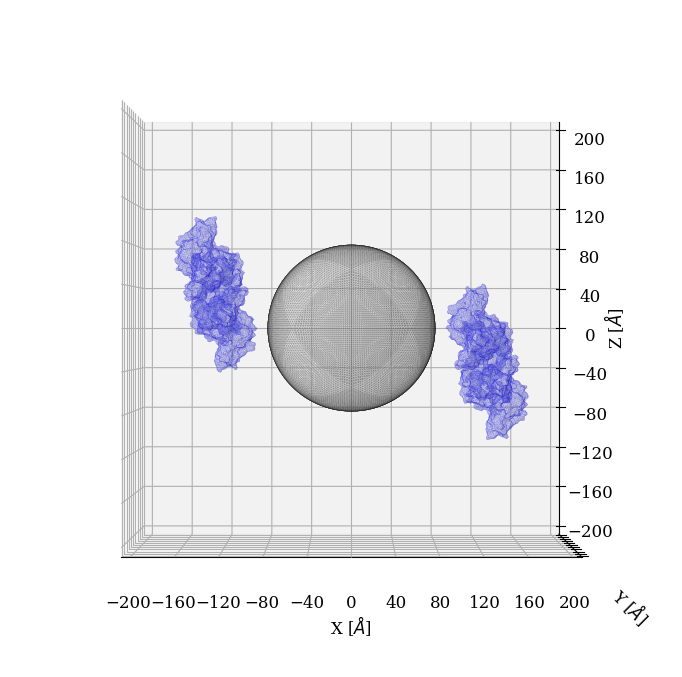
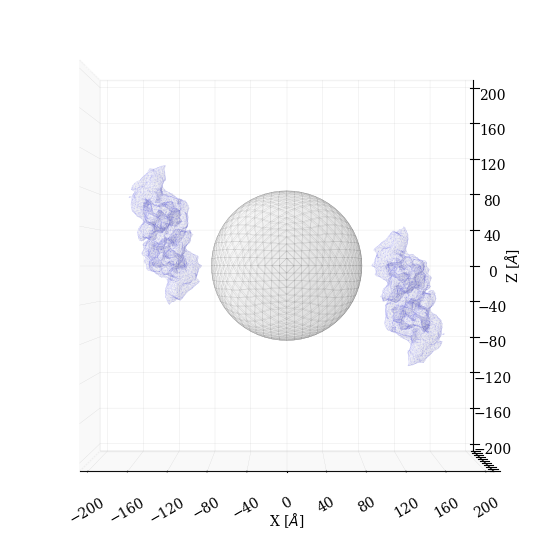
Addapt script to produce propper vis for paper and nb

diff --git a/paper/BSA_silver_NP_LSPR_response/visualization_images.py b/paper/BSA_silver_NP_LSPR_response/visualization_images.py
@@ -9,7 +9,7 @@ import os
 
 
 def read_data_plot(sensor, prt_one, prt_two, elev, azim, prot_color,
-                    file_name=None, file_ext=None):
+                    file_name=None, file_ext=None, fig_size=None):
     '''Reads the mesh files (.vert and .face) necessary to plot the 
     sensor-proteins display and save them as png. 
 
@@ -48,31 +48,43 @@ def read_data_plot(sensor, prt_one, prt_two, elev, azim, prot_color,
     face_protein_2 = face_prt2[:][:] - 1
 
     ### Plot image ###
-    
+
     pyplot.switch_backend('agg')         # We changed the backend to not generate the interactive image  
     
-    fig = pyplot.figure(figsize=(10,10))
+    fig = pyplot.figure(figsize=fig_size)
+    #fig.set_figheight(fig_size[1])
+    #fig.set_figwidth(fig_size[0])
+
     ax = fig.gca(projection='3d')
 
 
     ax.plot_trisurf(xs, ys, zs, triangles=face_sensor, linewidth=0.1,
-                     edgecolor="black", color="white", alpha=0.3)
+                     edgecolor="black", color="white", alpha=0.2)
     ax.plot_trisurf(xp1, yp1, zp1, triangles=face_protein_1, linewidth=0.1,
-                     edgecolor=prot_color, color="white", alpha=0.2 )
+                     edgecolor=prot_color, color="white", alpha=0.1 )
     ax.plot_trisurf(xp2, yp2, zp2, triangles=face_protein_2, linewidth=0.1,
-                     edgecolor=prot_color, color="white", alpha=0.2 )
+                     edgecolor=prot_color, color="white", alpha=0.1 )
 
     ax.set_xlabel('X [$\AA$]')
     ax.set_ylabel('Y [$\AA$]')
     ax.set_zlabel('Z [$\AA$]')
 
-    ax.xaxis.labelpad=20
-    ax.yaxis.labelpad=20
-    ax.zaxis.labelpad=20
+    ax.xaxis.labelpad = 8
+    ax.yaxis.labelpad = 8
+    ax.zaxis.labelpad = 8
 
     arrayOfTicks = numpy.linspace(-200, 200, 11)
 
+    ax.xaxis.pane.fill = False
+    ax.yaxis.pane.fill = False
+    ax.zaxis.pane.fill = False
 
+    #ax.xaxis._axinfo["grid"].update({"linewidth":0.1, "color" : '0.7'})
+    #ax.yaxis._axinfo["grid"].update({"linewidth":0.1, "color" : '0.7'})
+    #ax.zaxis._axinfo["grid"].update({"linewidth":0.1, "color" : '0.7'})
+    
+    ax.grid(False)
+    
     ax.w_xaxis.set_ticks(arrayOfTicks) 
     ax.w_yaxis.set_ticks(arrayOfTicks) 
     ax.w_zaxis.set_ticks(arrayOfTicks) 
@@ -84,28 +96,32 @@ def read_data_plot(sensor, prt_one, prt_two, elev, azim, prot_color,
     ax.set_ylim3d(ilim, slim)
     ax.set_zlim3d(ilim, slim)
 
-    ax.tick_params(pad=15)
+    ax.tick_params(pad=6)
+    pyplot.xticks(rotation=30)
+    pyplot.yticks(rotation=30)
+
+    #pyplot.tight_layout()
 
     if (azim==-90):
         ax.w_yaxis.set_ticklabels([])
+        ax.set_ylabel('')
 
     if (azim==-180):
         ax.w_xaxis.set_ticklabels([])
+        ax.set_xlabel('')
 
 
     ax.view_init(elev, azim)
 
     if (file_name and file_ext):
-        fig.savefig('figures/'+file_name+'.'+file_ext, bbox_inches='tight', 
-                    pad_inches=-0.5,
-                    format=file_ext)
+        fig.savefig('figures/'+file_name+'.'+file_ext, bbox_inches='tight',
+                    format=file_ext, pad_inches=-0.75)
 
-def main():
-    ''' Generates all the png for sphere-BSA visualizations.
+def file_exist(files_list):
+    '''Checks if images files exist
     '''
-    files = ['2prot_1nm_z_R8nm.png', '2prot_1nm_x_R8nm.png', '2prot_1nm_y_R8nm.png']
     status = list()
-    for file in files:
+    for file in files_list:
         if os.path.exists('figures/'+file):
             status.append(True)
         else:
@@ -113,50 +129,83 @@ def main():
 
     status = all(status)
 
-    if status == True:
-        print('Visualizations already exist! If you want to generate them '
-            'again, please delete the existing ones.')
+    return status
 
-    elif status == False: 
-        print('This can take couple of minutes, please wait while images '
-            'are produce.')
+def main(paper=False):
+    ''' Generates all the png for sphere-BSA visualizations.
+    '''
 
-        rcParams['font.family'] = 'serif'
-        rcParams['font.size'] = 12
-
-        #Case of 2 proteins in z
-        sensor = 'mesh_files/sensor/sensor_32K_R8nm'
-        prt_1z = 'mesh_files/BSA_sensor_2pz_d=1_00/bsa_d1_R8+1nm_z'
-        prt_2z = 'mesh_files/BSA_sensor_2pz_d=1_00/bsa_d1_R8+1nm_-z'
-
-
-        read_data_plot(sensor, prt_1z, prt_2z, elev=0, azim=-90,
-                                            prot_color='red',
-                                            file_name='2prot_1nm_z_R8nm',
-                                            file_ext='png')
-        #Case of 2 proteins in x
-        prt_1x = 'mesh_files/BSA_sensor_2px_d=1_00/bsa_d1_R8+1nm_x'
-        prt_2x = 'mesh_files/BSA_sensor_2px_d=1_00/bsa_d1_R8+1nm_-x'
+    if paper:
+        file_ext = 'pdf'
+        fig_size = (9, 9)
+        fs = 10
+    else:
+        file_ext = 'png'
+        fig_size = (9, 9)
+        fs = 10
 
 
-        read_data_plot(sensor, prt_1x, prt_2x, elev=0, azim=-90,
-                                            prot_color='blue',
-                                            file_name='2prot_1nm_x_R8nm',
-                                            file_ext='png')
-        #Case of 2 proteins in y
-        prt_1y = 'mesh_files/BSA_sensor_2py_d=1_00/bsa_d1_R8+1nm_y'
-        prt_2y = 'mesh_files/BSA_sensor_2py_d=1_00/bsa_d1_R8+1nm_-y'
+    rcParams['font.family'] = 'serif'
+    rcParams['font.size'] = fs
+    
+
+    #Case of 2 proteins in z
+    sensor = 'mesh_files/sensor/sensor_2K_R8nm'
+    prt_1z = 'mesh_files/BSA_sensor_2pz_d=1_00/bsa_d0.3_R8+1nm_z'
+    prt_2z = 'mesh_files/BSA_sensor_2pz_d=1_00/bsa_d0.3_R8+1nm_-z'
 
 
-        read_data_plot(sensor, prt_1y, prt_2y, elev=0, azim=-180,
-                                            prot_color='green',
-                                            file_name='2prot_1nm_y_R8nm',
-                                            file_ext='png')
+    read_data_plot(sensor, prt_1z, prt_2z, elev=0, azim=-90,
+                                        prot_color='red',
+                                        file_name='2prot_1nm_z_R8nm',
+                                        file_ext=file_ext,
+                                        fig_size=fig_size)
+    
+    #Case of 2 proteins in x
+    prt_1x = 'mesh_files/BSA_sensor_2px_d=1_00/bsa_d0.3_R8+1nm_x'
+    prt_2x = 'mesh_files/BSA_sensor_2px_d=1_00/bsa_d0.3_R8+1nm_-x'
 
+
+    read_data_plot(sensor, prt_1x, prt_2x, elev=0, azim=-90,
+                                        prot_color='blue',
+                                        file_name='2prot_1nm_x_R8nm',
+                                        file_ext=file_ext,
+                                        fig_size=fig_size)
+    #Case of 2 proteins in y
+    prt_1y = 'mesh_files/BSA_sensor_2py_d=1_00/bsa_d0.3_R8+1nm_y'
+    prt_2y = 'mesh_files/BSA_sensor_2py_d=1_00/bsa_d0.3_R8+1nm_-y'
+
+
+    read_data_plot(sensor, prt_1y, prt_2y, elev=0, azim=-180,
+                                        prot_color='green',
+                                        file_name='2prot_1nm_y_R8nm',
+                                        file_ext=file_ext,
+                                        fig_size=fig_size)
+    
 
 
 
 if __name__ == "__main__":
-    main()
+
+    files_nb = ['2prot_1nm_z_R8nm.png', '2prot_1nm_x_R8nm.png', '2prot_1nm_y_R8nm.png']
+    files_paper =['2prot_1nm_z_R8nm.pdf', '2prot_1nm_x_R8nm.pdf', '2prot_1nm_y_R8nm.pdf']
+
+    status_nb = file_exist(files_nb)
+    status_paper = file_exist(files_paper)
+
+    
+    if status_nb == False: 
+        print('This can take couple of minutes, please wait while images for '
+            'notebook report are produced.')
+        main()
+    
+    if status_paper == False:
+        print('This can take couple of minutes, please wait while images for '
+            'paper are produced.')
+        main(paper=True)
+
+    elif (status_nb and status_paper) == True:
+        print('Visualizations for notebook and paper already exist! If you want' 
+        'to generate them again, please delete the existing ones.')
 
 
